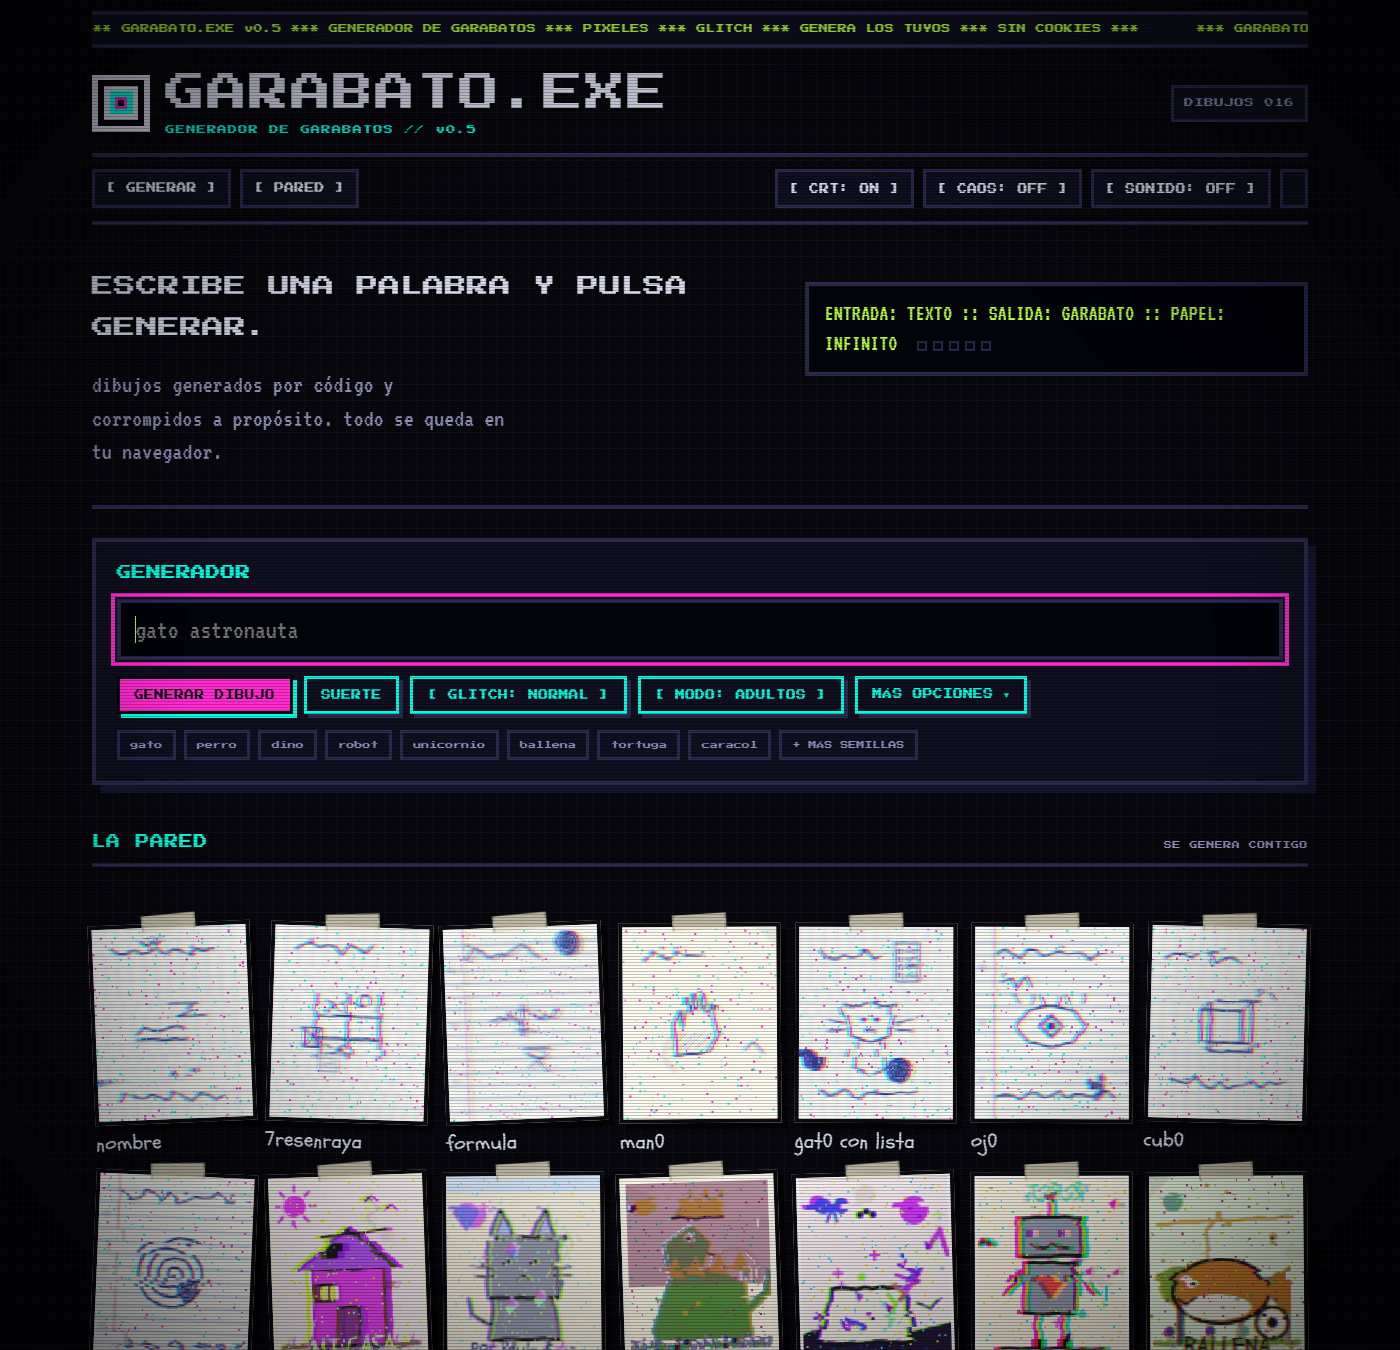
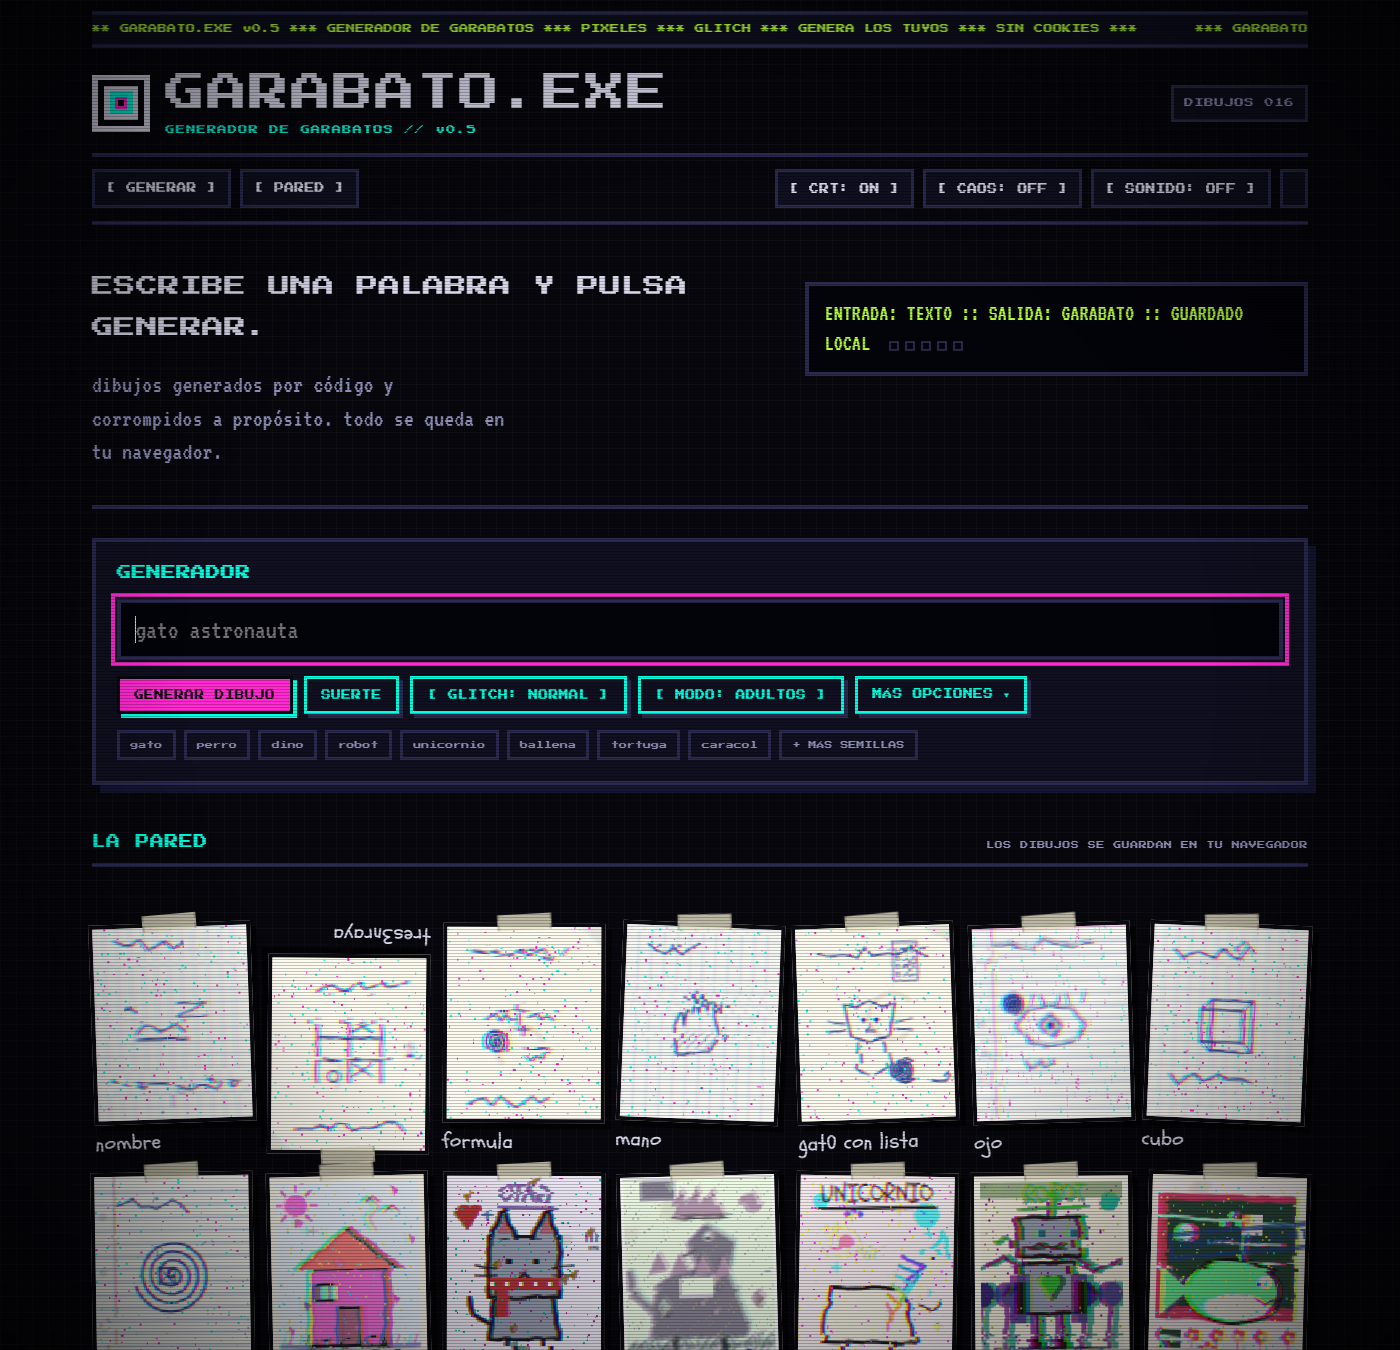
Textos planos: quita SIN ANALITICA y SIN GURUS, sin poesia en avisos ni README

diff --git a/js/galeria.js b/js/galeria.js
@@ -2796,17 +2796,17 @@
     return null;
   };
 
-  var FRASES_VIRUS = [
-    "se ha perdido un color. no sabemos cuál.",
-    "el disquette sueña con un niño.",
-    "píxel 4812: desaparecido.",
-    "el escáner tiene hambre.",
-    "alguien ha dibujado encima de tu infancia.",
-    "error 0x00: demasiado bonito para este monitor.",
-    "la pared respira cuando no miras.",
-    "no todos los dibujos vuelven.",
-    "cinta adhesiva insuficiente.",
-    "un lápiz se quedó sin punta en 1994."
+  var CONSEJOS = [
+    "todo se guarda en este navegador.",
+    "sin cookies ni servidor.",
+    "exporta la pared desde MÁS OPCIONES.",
+    "pulsa Z en un dibujo para verlo en grande.",
+    "arrastra los dibujos para ordenarlos.",
+    "cada dibujo tiene una semilla única.",
+    "el modo se guarda por dibujo.",
+    "clic en un dibujo para corromperlo.",
+    "el botón M crea una variación.",
+    "el botón de pintar te deja dibujar encima."
   ];
 
   var corromper = function (texto, azar) {
@@ -3290,7 +3290,7 @@
     if (secreto) {
       marcarSello(secreto);
     } else if (contadorGeneraciones % 6 === 0) {
-      mostrarVirus(FRASES_VIRUS[Math.floor(Math.random() * FRASES_VIRUS.length)]);
+      mostrarVirus(CONSEJOS[Math.floor(Math.random() * CONSEJOS.length)]);
     }
     if (registros.length > MAXIMO) {
       registros = registros.slice(0, MAXIMO);
@@ -3342,7 +3342,7 @@
       pared.appendChild(tile);
     }
     actualizarTotales();
-    mostrarVirus("ha nacido algo. no preguntes de qué.");
+    mostrarVirus("variación creada.");
   };
 
   var CLAVE_SELLOS = "zetetica-sellos";
@@ -3503,7 +3503,7 @@
       actualizarTile(registro);
       capa.classList.remove("abierto");
       capa.setAttribute("aria-hidden", "true");
-      mostrarVirus("tinta seca. ahora es más tuyo.");
+      mostrarVirus("pintura guardada.");
     });
     return estado;
   };
@@ -3546,7 +3546,7 @@
           }
         }
       }, 9000);
-      mostrarVirus("modo automático: la pared se dibuja sola.");
+      mostrarVirus("modo automático activado.");
     }
     if (botonAuto) {
       botonAuto.textContent = modoAuto ? "[ AUTO: ON ]" : "[ AUTO: OFF ]";
@@ -3621,7 +3621,7 @@
     var enlace = window.location.href.split("#")[0] + "#pared=" + encodeURIComponent(JSON.stringify(datos));
     if (window.navigator && navigator.clipboard && navigator.clipboard.writeText) {
       navigator.clipboard.writeText(enlace).then(function () {
-        mostrarVirus("enlace copiado. pásalo por donde quieras.");
+        mostrarVirus("enlace copiado.");
       }, function () {
         window.prompt("copia el enlace:", enlace);
       });
@@ -3634,7 +3634,7 @@
     var figura = pared.firstChild;
     var lienzoGrabar = figura && figura.querySelector ? figura.querySelector("canvas") : null;
     if (!lienzoGrabar || !window.MediaRecorder || !lienzoGrabar.captureStream) {
-      mostrarVirus("el escáner no puede grabar aquí.");
+      mostrarVirus("este navegador no puede grabar vídeo.");
       return;
     }
     try {
@@ -3665,9 +3665,9 @@
           grabador.stop();
         }
       }, 120);
-      mostrarVirus("grabando la corrupción en curso.");
+      mostrarVirus("grabando vídeo...");
     } catch (error) {
-      mostrarVirus("el escáner no puede grabar aquí.");
+      mostrarVirus("este navegador no puede grabar vídeo.");
     }
   };
 
@@ -4043,7 +4043,7 @@
     }
     delete cacheDibujos[registro.s];
     actualizarTotales();
-    mostrarVirus("alguien tiró un dibujo. sigue en la papelera.");
+    mostrarVirus("dibujo movido a la papelera.");
   };
 
   var panelPapelera = null;
@@ -4115,7 +4115,7 @@
       capa.querySelector("[data-pap-vaciar]").addEventListener("click", function () {
         guardarPapelera([]);
         pintarPanelPapelera();
-        mostrarVirus("papelera vaciada. que descansen.");
+        mostrarVirus("papelera vaciada.");
       });
     }
     pintarPanelPapelera();
@@ -4159,7 +4159,7 @@
           actualizarTotales();
           mutador.capa.classList.remove("abierto");
           mutador.capa.setAttribute("aria-hidden", "true");
-          mostrarVirus("variante elegida. las otras se fueron.");
+          mostrarVirus("variante añadida.");
         };
       })(candidato));
       mutador.cuadricula.appendChild(boton);
@@ -4655,7 +4655,7 @@
         return;
       }
       pintarModo();
-      mostrarVirus(modoActual === "a" ? "modo adultos: boli y aburrimiento." : "modo niños: crayón y colores.");
+      mostrarVirus(modoActual === "a" ? "modo adultos activado." : "modo niños activado.");
     });
   }
 
@@ -4676,7 +4676,7 @@
   if (recibida && recibida.length) {
     registros = recibida;
     paredCompartida = true;
-    mostrarVirus("pared recibida. si generas algo, se adopta.");
+    mostrarVirus("pared compartida cargada: se guardará al generar.");
   } else {
     registros = leerRegistros();
     if (!registros.length) {

diff --git a/index.html b/index.html
@@ -50,7 +50,7 @@
       <h2><span class="glitch" data-text="ESCRIBE UNA PALABRA">ESCRIBE UNA PALABRA</span> Y PULSA GENERAR.</h2>
       <p class="entradilla">dibujos generados por código y corrompidos a propósito. todo se queda en tu navegador.</p>
     </div>
-    <div class="escanner">ENTRADA: TEXTO :: SALIDA: GARABATO :: PAPEL: INFINITO <span class="sellos" data-sellos aria-label="sellos"></span></div>
+    <div class="escanner">ENTRADA: TEXTO :: SALIDA: GARABATO :: GUARDADO LOCAL <span class="sellos" data-sellos aria-label="sellos"></span></div>
   </section>
 
   <section class="generador" id="generador" aria-labelledby="titulo-generador">
@@ -149,7 +149,7 @@
 
   <div class="seccion-titulo" id="pared">
     <h2>LA PARED</h2>
-    <p>se genera contigo</p>
+    <p>los dibujos se guardan en tu navegador</p>
   </div>
 
   <div class="pared" data-pared></div>
@@ -166,10 +166,10 @@
   <pre class="ascii" aria-hidden="true"> .----------------.
  | GARABATO.EXE   |
  | &gt; garabato: ON |
- | &gt; papel: infinito |
+ | &gt; datos: local |
  '----------------'</pre>
-  <p>© <span data-anio>2026</span> GARABATO.EXE · GENERADO EN TU NAVEGADOR, GUARDADO EN TU NAVEGADOR, TUYO</p>
-  <p class="nota">MEJOR VISTO A 1024x768 · SIN ANALITICA · SIN GURUS</p>
+  <p>© <span data-anio>2026</span> GARABATO.EXE · TODO LOCAL, SIN SERVIDOR</p>
+  <p class="nota">MEJOR VISTO A 1024x768</p>
 </footer>
 
 <script src="js/zetetica.js"></script>

diff --git a/README.md b/README.md
@@ -2,7 +2,7 @@
 
 **Generador de garabatos.**
 
-Generador net.art de dibujos de niños procedurales: escribes una palabra, se genera un garabato, se corrompe a propósito y se queda en una pared que crece contigo. HTML/CSS/JS puro: sin dependencias, sin servidor, sin cookies, sin analítica.
+Generador net.art de dibujos de niños procedurales: escribes una palabra, se genera un garabato, se corrompe a propósito y se guarda en una pared local. HTML/CSS/JS puro: sin dependencias, sin servidor, sin cookies, sin analítica.
 
 ```
    .----------------.
@@ -14,7 +14,7 @@ Generador net.art de dibujos de niños procedurales: escribes una palabra, se ge
 
 ## Qué es
 
-GARABATO.EXE es un experimento de arte generativo y net.art. Los dibujos no se suben ni se descargan de ningún sitio: se dibujan en vivo en el navegador con Canvas a partir de una semilla de texto. La estética mezcla dibujo infantil, píxel art, glitch y caos de la vieja web: un escáner roto interpretando la infancia.
+GARABATO.EXE es un experimento de arte generativo y net.art. Los dibujos no se suben ni se descargan de ningún sitio: se dibujan en vivo en el navegador con Canvas a partir de una semilla de texto. El estilo mezcla dibujo infantil, píxel art y glitch; el resultado se corrompe a propósito.
 
 ## Capturas
 
@@ -79,7 +79,7 @@ _blog_antiguo/    archivo del proyecto anterior (blog zetético)
 
 ## Estado
 
-Experimento en obras permanentes. Se aceptan fallos raros como parte del encanto.
+Experimento en desarrollo. Puede tener fallos.
 
 ## Licencia
 
